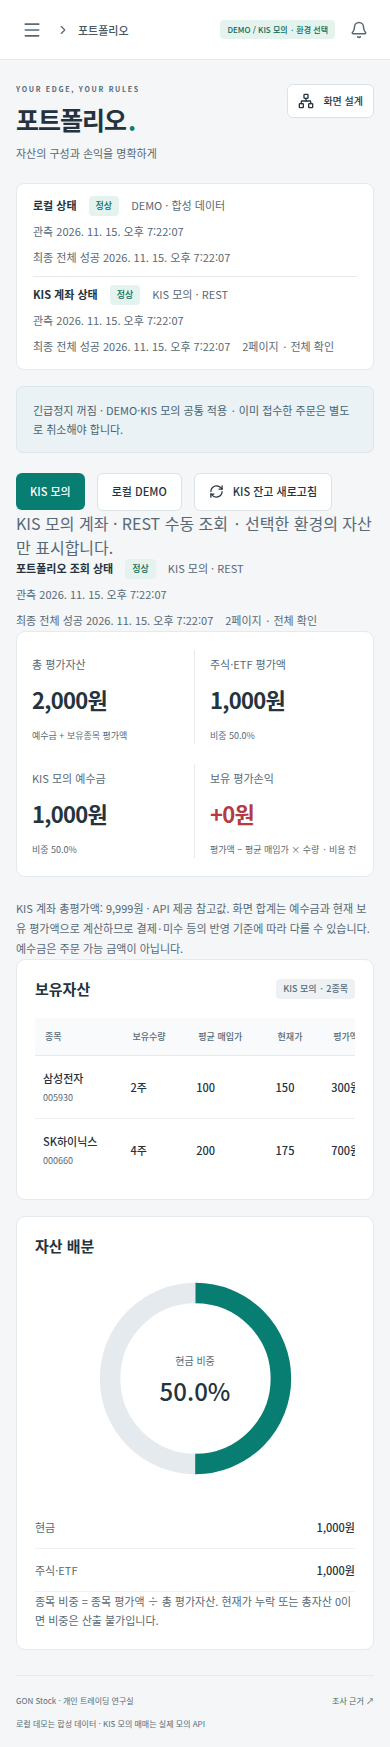
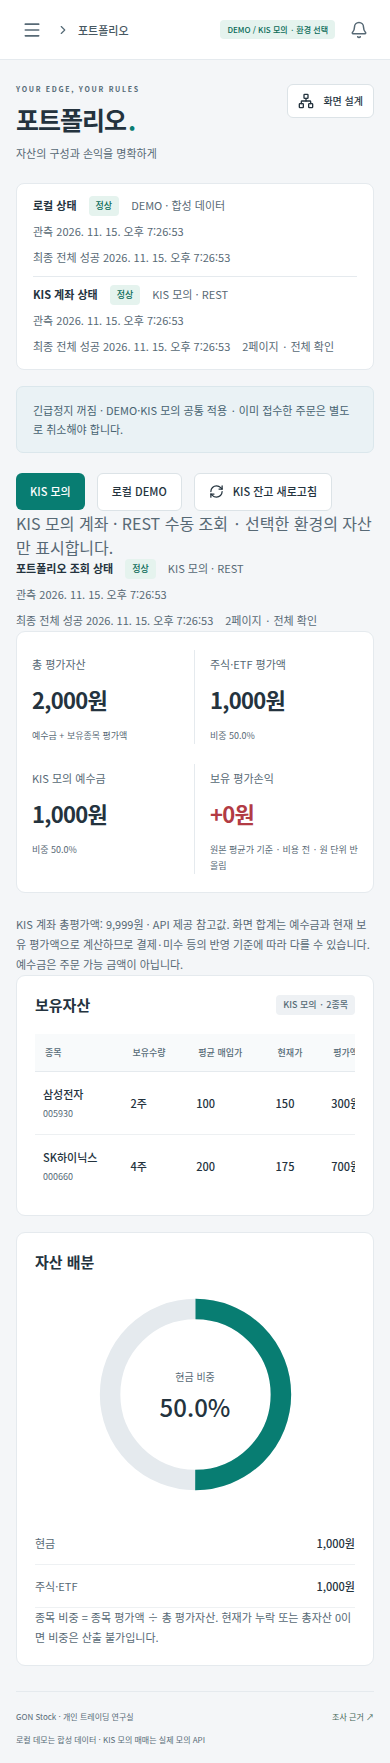
fix: 포트폴리오 평균매입가 소수 표시 보존 (#16)

diff --git a/src/pages/Workspace.tsx b/src/pages/Workspace.tsx
@@ -58,7 +58,7 @@ export function Portfolio() {
         <Stat label="총 평가자산" value={money(portfolio.total)} sub="예수금 + 보유종목 평가액" />
         <Stat label="주식·ETF 평가액" value={money(portfolio.invested)} sub={`비중 ${weight(portfolio.investedWeight)}`} />
         <Stat label={kis ? 'KIS 모의 예수금' : 'DEMO 보유 현금'} value={money(portfolio.cash)} sub={`비중 ${weight(portfolio.cashWeight)}`} />
-        <Stat label="보유 평가손익" value={profit(portfolio.profit)} sub="평가액 − 평균 매입가 × 수량 · 비용 전" tone={portfolio.profit === null ? undefined : portfolio.profit >= 0 ? 'up' : 'down'} />
+        <Stat label="보유 평가손익" value={profit(portfolio.profit)} sub="원본 평균가 기준 · 비용 전 · 원 단위 반올림" tone={portfolio.profit === null ? undefined : portfolio.profit >= 0 ? 'up' : 'down'} />
       </section>
       {kis && <p className="muted tiny">KIS 계좌 총평가액: {money(connection.balance!.totalEquity)} · API 제공 참고값. 화면 합계는 예수금과 현재 보유 평가액으로 계산하므로 결제·미수 등의 반영 기준에 따라 다를 수 있습니다. 예수금은 주문 가능 금액이 아닙니다.</p>}
       <div className="grid-main">
@@ -66,7 +66,7 @@ export function Portfolio() {
           {portfolio.positions.length ? <div className="table-scroll"><table><thead><tr><th>종목</th><th>보유수량</th><th>평균 매입가</th><th>현재가</th><th>평가액</th><th>평가손익</th><th>비중</th></tr></thead><tbody>
             {portfolio.positions.map(p => <tr key={p.code}>
               <td><Link className="stock-name" to={`${kis ? '/paper' : '/trade'}?code=${encodeURIComponent(p.code)}`}>{p.name}<small>{p.code}</small></Link></td>
-              <td className="number">{p.qty}주</td><td className="number">{won(p.average)}</td>
+              <td className="number">{p.qty}주</td><td className="number">{p.average.toLocaleString('ko-KR', { maximumFractionDigits: 20 })}</td>
               <td className="number">{p.price !== null && p.price > 0 ? won(p.price) : '평가 불가'}</td>
               <td className="number">{money(p.value)}</td><td className={p.profit === null ? 'number' : p.profit >= 0 ? 'number up' : 'number down'}>{profit(p.profit)}</td>
               <td className="number">{weight(p.weight)}</td>

diff --git a/tests/browser/portfolio.spec.ts b/tests/browser/portfolio.spec.ts
@@ -96,3 +96,12 @@ test('portfolio detail navigation is environment-specific and layouts stay usabl
   await page.setViewportSize({ width: 1440, height: 1050 }); await page.screenshot({ path: 'test-results/portfolio-desktop.png', fullPage: true });
   expect(errors).toEqual([]); expect(posts).toBe(0);
 });
+
+test('portfolio keeps fractional average purchase prices visible so displayed PnL can be checked', async ({ page }) => {
+  const state = portfolioState();
+  state.connection.balance!.positions = [{ code: '005930', name: '삼성전자', qty: 2, average: 100.5, price: 150 }];
+  await page.route('**/api/state', route => route.fulfill({ json: state })); await page.goto('/portfolio');
+  const row = page.getByRole('row').filter({ hasText: '삼성전자' });
+  await expect(row.getByRole('cell', { name: '100.5', exact: true })).toBeVisible();
+  await expect(row.getByRole('cell', { name: '+99원', exact: true })).toBeVisible();
+});

diff --git a/docs/tasks/16-portfolio.md b/docs/tasks/16-portfolio.md
@@ -6,7 +6,7 @@
 - 목표·완료 조건: 환경별 현금·보유·평가액·손익·비중, 전체 페이지·0수량·가격 누락·총자산0·상세 이동을 검증한다.
 - 허용된 작업·제외 범위: KIS 조회와 DEMO 표시. 주문·취소·전략 실행, 스택 교체는 제외한다.
 - 선행 작업·의존관계: #6·#8 completed 및 main 통합 재확인. #16 Project Ready에서 착수한다.
-- 이슈 / PR: #16 / 작성 예정
+- 이슈 / PR: [#16](https://github.com/krdn/gon-stock03/issues/16) / [PR #37](https://github.com/krdn/gon-stock03/pull/37)
 - 작업 브랜치 / 마지막 확인 SHA: `feat/16-portfolio` / 기준 `daa01baa65f94cb5c9e1497a28fa8c2ff71938e9`
 
 ## 먼저 읽을 자료
@@ -18,9 +18,9 @@
 ## 현재 결과
 
 - 완료한 변경: 환경 분리·잔고 수동 조회·평가/손익/비중·불완전 상태·상세 이동·가격 nullable 계약·화면 레지스트리. [검증 기록](../verification/2026-11-15-portfolio.md).
-- 검사 명령·결과·대상 SHA: 기준 main CI·ready PASS. 구현 작업트리에서 단위70/70·브라우저49/49·빌드 PASS. 실제 KIS 모의잔고1페이지0보유 UI 반영, Argon high 리뷰 PASS.
+- 검사 명령·결과·대상 SHA: 기준 main CI·ready PASS. 구현 작업트리에서 단위70/70·브라우저49/49·빌드 PASS. 실제 KIS 모의잔고1페이지0보유 UI 반영, Argon high 리뷰 PASS. 평균매입가 표시 후속 회귀와 포트폴리오5/5·빌드·수정분 리뷰 PASS.
 - 미검증·남은 작업: PR/CI·원격 인계, 대상 SHA에 대한 사용자 화면 수용·통합. 사용자 직접 육안·장중 수용·실제 주문/취소/전략은 미검증. 실제 여러 보유/여러 페이지는 미실증이며 결정적 테스트로 확인했다.
-- 실패·차단 원인과 반복하지 않을 시도: 처음 가격 누락·환경 선택 부재 테스트 실패 후 구현. DEMO 회귀는 환경을 명시 선택해 통과했다. STE 기준 파일·graphify 부재는 통과로 바꾸지 않는다.
+- 실패·차단 원인과 반복하지 않을 시도: 처음 가격 누락·환경 선택 부재 테스트 실패 후 구현. DEMO 회귀는 환경을 명시 선택해 통과했다. STE 기준 파일·graphify 부재는 통과로 바꾸지 않는다. 루트 handoff dry-run은 보존 중인 미추적 `.codex/` 때문에 차단되어 원격 브랜치의 깨끗한 복제본에서 확인한다.
 - 결정과 이유·보존할 사용자 변경: 공통 서비스를 재사용한다. `.codex/config.toml` 미추적 사용자 설정 및 `docs/architecture/tech-stack-review.md`를 보존한다.
 
 ## 다음 행동

diff --git a/docs/STATE.md b/docs/STATE.md
@@ -2,7 +2,7 @@
 
 기준: [상위 #1](https://github.com/krdn/gon-stock03/issues/1). 개인 PC·국내 주식/ETF·모의 수동/전략 매매. 해외·실전·다중 사용자는 범위 밖.
 
-- 현재 작업: [#16 포트폴리오](tasks/16-portfolio.md), 구현·로컬 검증·Argon 리뷰 완료, PR/CI 준비. KIS 잔고·환경 분리·평가 불가·합계/비중을 검증했다. 주문 실행은 포함하지 않는다.
+- 현재 작업: [#16 포트폴리오](tasks/16-portfolio.md), [PR #37](https://github.com/krdn/gon-stock03/pull/37) 게시, 구현·로컬 검증·Argon 리뷰 완료. 최종 CI·화면 수용·통합 대기. KIS 잔고·환경 분리·평가 불가·합계/비중을 검증했다. 주문 실행은 포함하지 않는다.
 - 최근 완료: [#20 관심종목](tasks/20-watchlist.md), completed/Done. PR #35·#36 통합 및 최종 main CI 성공을 확인했다.
 - 기준 main: `daa01baa65f94cb5c9e1497a28fa8c2ff71938e9`. 앱43702990997·구성43702990969 SUCCESS. 실제 Herdr 탭 연결 확인 후 #16 소유권을 이 세션으로 넘겼다. `.codex/config.toml`은 미추적 사용자 설정으로 보존한다.
 - 선행 기록: [기준선 #5](tasks/5-baseline.md), [공통 상태 #6](tasks/6-common-state.md), [마스터·일봉 #7](tasks/7-market-data.md), [연결·설정 #8](tasks/8-connection-settings.md). 완료 이력·세부 근거는 해당 파일을 읽는다.
